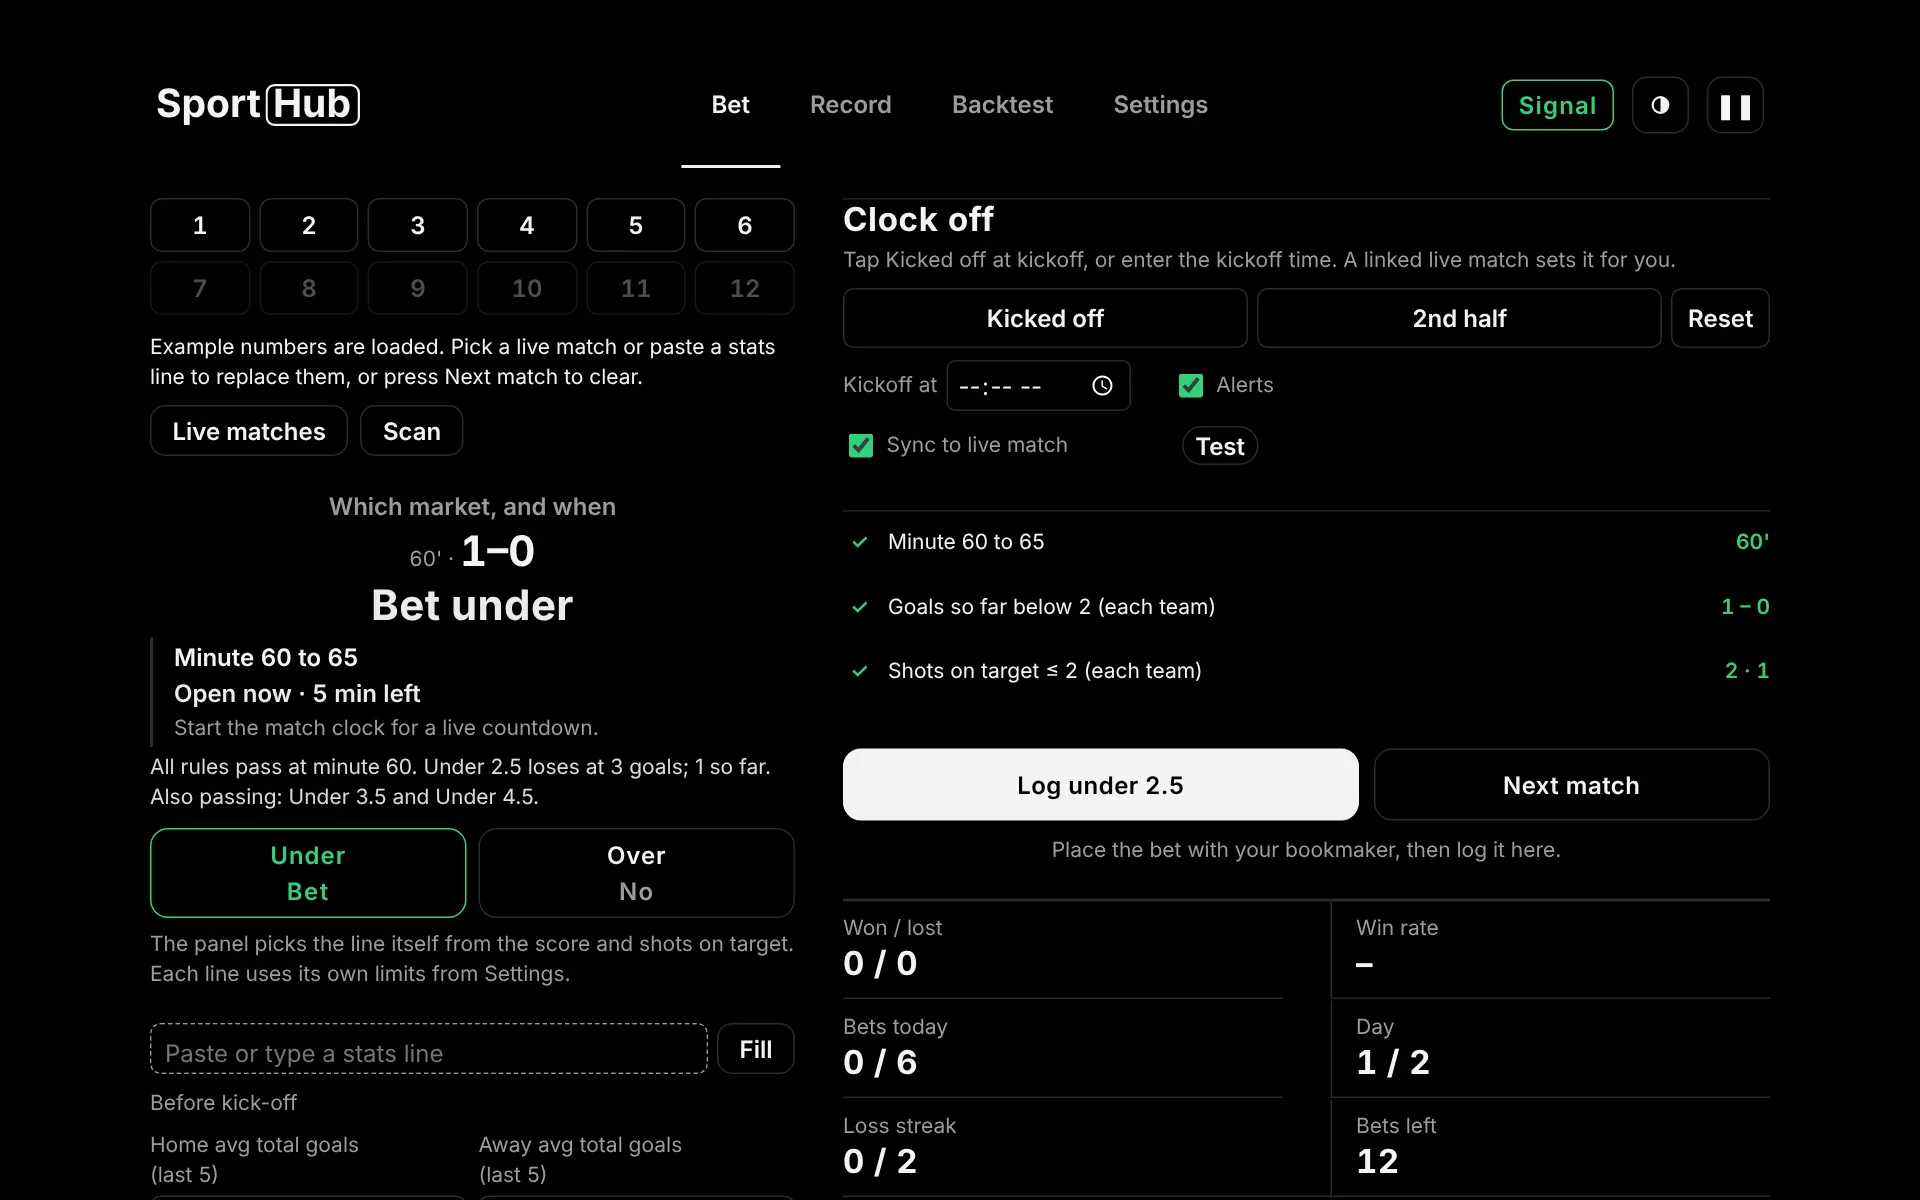
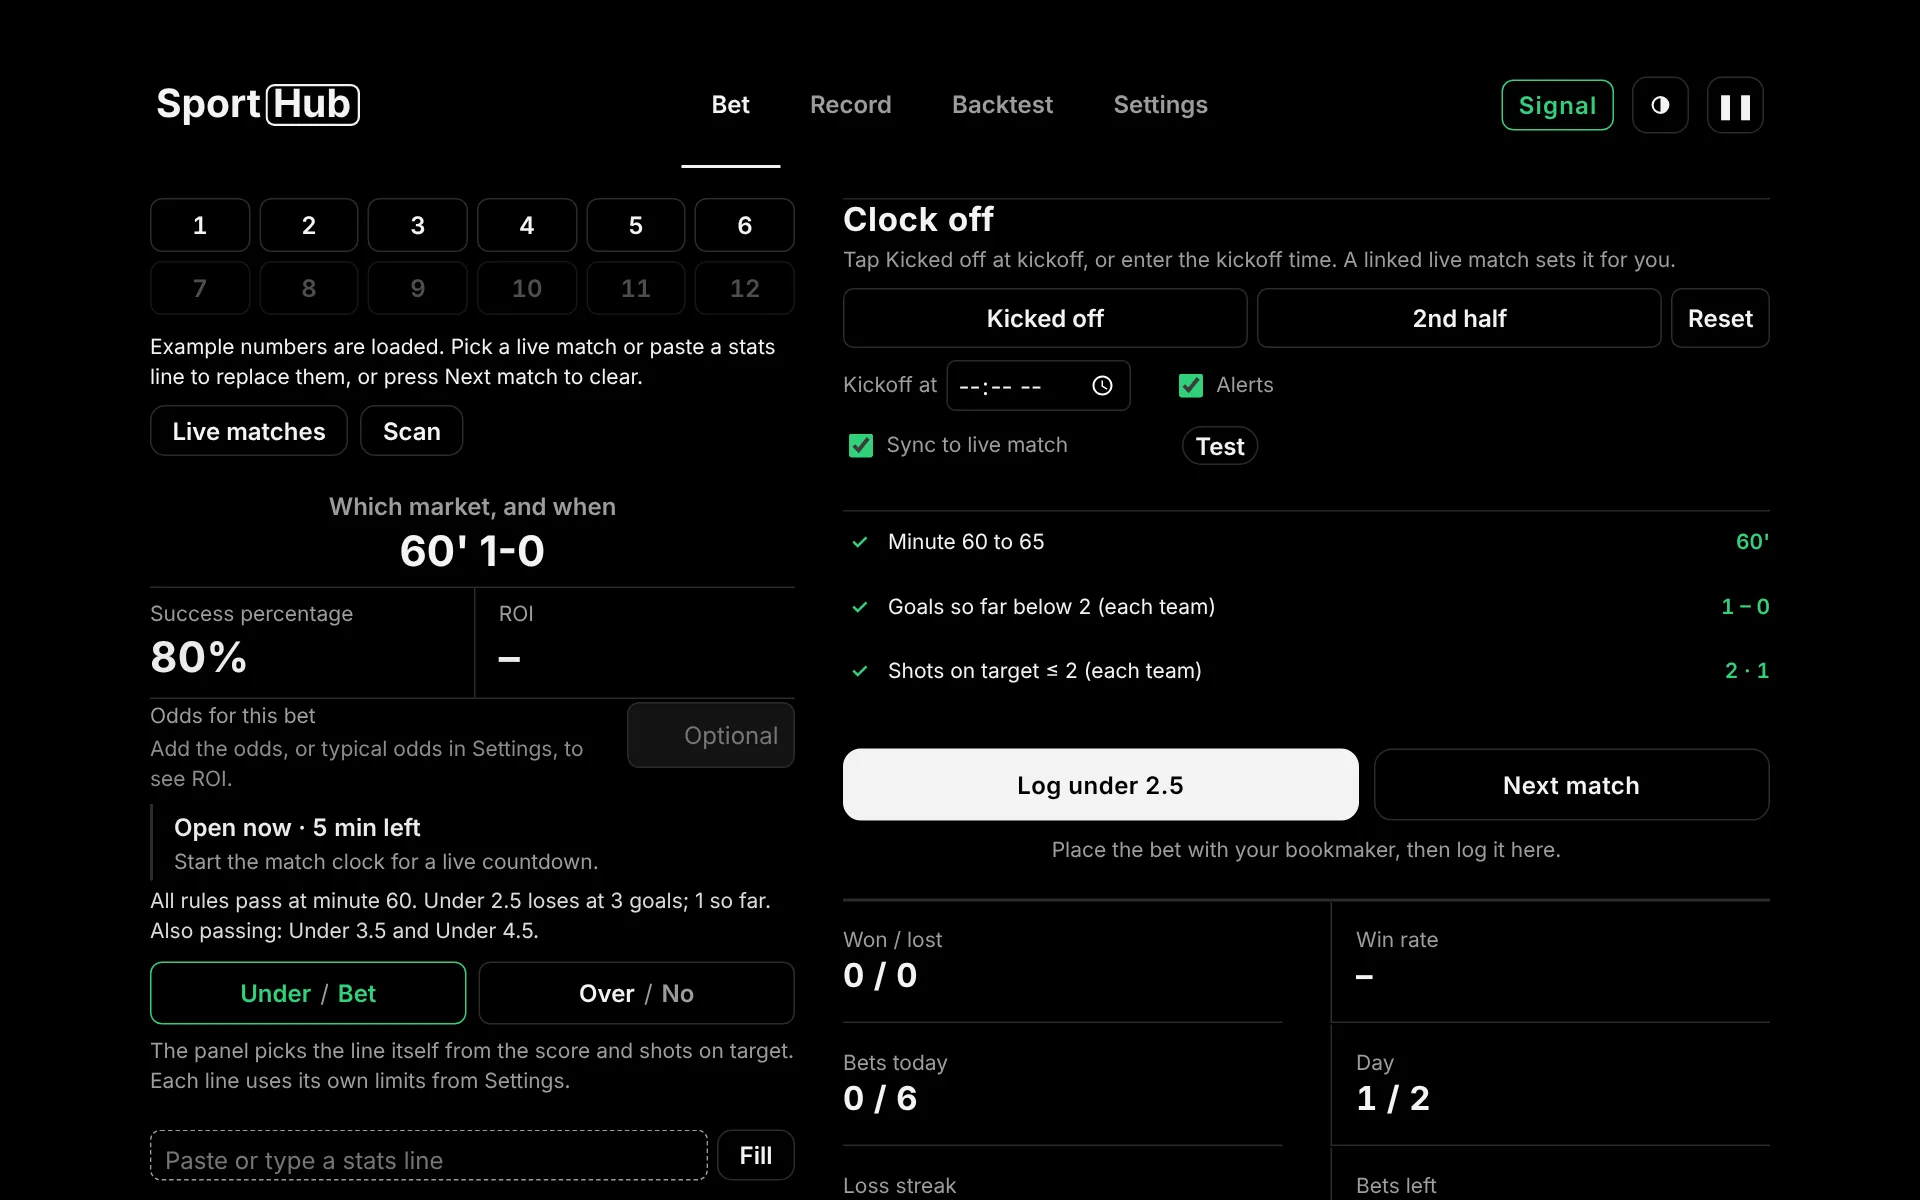
Build 65: live Success percentage and ROI under 60' 1-0, odds box, Typical odds, small Under / Bet chips
Claude-Session: https://claude.ai/code/session_01K42p2uwRXf4Wwj9iN5MFzn

diff --git a/panel.html b/panel.html
@@ -845,6 +845,23 @@ body.pg3 .v2[data-cur="3"] [data-pg]:not([data-pg~="3"]){display:none!important}
 
 /* ===== Build 63: the "Day x of y: bets left today" block (heading, big number, count line) is taken off the screen. The same counts are in the Session figures. ===== */
 #v-bet .stk{display:none!important}
+
+/* ===== Build 65: Success percentage and ROI under the minute and score, the odds for this bet, and small Under / Over chips ===== */
+#msig .mst{margin:12px 0 0}
+#msig .msod{display:flex;align-items:flex-start;justify-content:space-between;gap:12px;margin:8px 0 12px}
+#msig .msod>div{min-width:0;flex:1}
+#msig .msod label{display:block;font:var(--t-label);color:var(--mut)}
+#msig #ms_note{margin:2px 0 0;font:var(--t-label);color:var(--mut)}
+#msig .msod input{flex:none;width:112px;min-height:44px;padding:8px 10px;font:400 16px/22px var(--body);text-align:right;background:var(--card);color:var(--tx);border:1px solid var(--line);border-radius:8px}
+#msig .msm .scr{font-variant-numeric:normal}
+#msig .msc{flex-direction:row;justify-content:center;align-items:baseline;gap:0;min-height:0;padding:9px 6px;border-radius:8px}
+#msig .msc i,#msig .msc em{font:600 16px/22px var(--body);letter-spacing:0}
+#msig .msc span{margin:0 6px;font:400 16px/22px var(--body);color:var(--mut)}
+@media (min-width:900px){
+ #msig .mst{margin-top:8px}#msig .mst>div{padding-top:8px;padding-bottom:8px}#msig .msod{margin:2px 0 6px}
+ /* the left column is taller now (it holds the percentage row and the odds box), so the Session figures on the right get roomier spacing */
+ #fd-stats .grid>div{padding-top:16px;padding-bottom:16px}
+}
 </style>
 </head>
 <body>
@@ -1138,7 +1155,7 @@ body.pg3 .v2[data-cur="3"] [data-pg]:not([data-pg~="3"]){display:none!important}
  </section>
  <div class="pgnav" id="pgnav" hidden><button type="button" data-go="back">Back</button><button type="button" data-go="next">Next</button></div>
  <p class="pgsr" id="pgsr" role="status" aria-live="polite"></p>
- <footer>Numbers come from a pasted stats line, or are pulled from your own API-Sports key if you add one. Not connected to a bookmaker. No bet is guaranteed.<span class="bld"><span id="buildno">Build 64 · 7 Nov 2026</span> <a id="aboutlk" class="abl" href="./?about">About SportHub</a> <button type="button" class="pu" id="reloadnew" data-a="reload">Reload latest</button></span></footer>
+ <footer>Numbers come from a pasted stats line, or are pulled from your own API-Sports key if you add one. Not connected to a bookmaker. No bet is guaranteed.<span class="bld"><span id="buildno">Build 65 · 7 Nov 2026</span> <a id="aboutlk" class="abl" href="./?about">About SportHub</a> <button type="button" class="pu" id="reloadnew" data-a="reload">Reload latest</button></span></footer>
 </main>
 
 <script>
@@ -1631,6 +1648,26 @@ function recordStats(book,plan,mk){
   o.text=rec+'. The true rate is probably between '+pct1(o.lo)+' and '+pct1(o.hi)+'. '+(o.fair==null?'None won, so no price would have broken even.':'To profit you would need odds of at least '+o.fair.toFixed(2)+(o.fairSafe==null?'':' (up to '+o.fairSafe.toFixed(2)+' to be safe)')+'. Compare that with the real price on your platform.');
  }
  return o;
+}
+// Odds are optional: a number from 1.01 to 1000.
+function parseOdds(v){const x=num(v);return x!=null&&x>1&&x<=1000?Math.round(x*100)/100:null}
+function pcdf(k,l){let t=Math.exp(-l),s=t;for(let i=1;i<=k&&i<200;i++){t*=l/i;s+=t}return Math.min(1,s)}
+// Success percentage for the live match: the chance that the line in use wins, from the minute, the score and the numbers entered.
+// Goals still to come are Poisson. The pace is the xG seen so far (else 0.3 per shot on target, else the goals) blended with the last-5
+// average total goals, as if that average were worth 45 minutes of play. About 2 minutes of stoppage time are added to the clock.
+function liveProb(v,side,line){
+ if(!v||v.min==null||v.gh==null||v.ga==null||line==null)return null;
+ const m=Math.max(0,Math.min(120,v.min)),G=v.gh+v.ga;
+ const av=[v.avgH,v.avgA].filter(x=>x!=null&&x>=0);
+ const mu=av.length?av.reduce((a,b)=>a+b,0)/av.length:2.6;
+ let E=G;
+ if(v.xgh!=null&&v.xga!=null)E=v.xgh+v.xga;
+ else if(v.sotH!=null||v.sotA!=null)E=0.3*((v.sotH||0)+(v.sotA||0));
+ const K=45,lam=((mu/90*K+E)/(K+m))*(m<90?90-m+2:2);
+ let p;
+ if(side==='over'){const k=Math.ceil(line)-G;p=k<=0?1:1-pcdf(k-1,lam)}
+ else{const k=Math.floor(line)-G;p=k<0?0:pcdf(k,lam)}
+ return{p:Math.max(0,Math.min(1,p)),lam:lam};
 }
 const REC_TAG='U35DATA ';
 // Text you can paste into Notes or a message: a short summary plus one data line that recordImport can read back.
@@ -2219,12 +2256,13 @@ let msK='idle';
 function msWhenHtml(){
  if(msK==='bad')return '';
  const W=whenInfo(clk,c,Date.now(),num($('i_min').value));
- let l1='<span>Minute '+W.from+' to '+W.to+'</span>';
  let l2='',k='';
  if(W.state==='wait'){k='am';l2=W.clock?'Opens in '+(W.est?'about ':'')+mmss(W.secs):'Opens in '+W.mins+' min'}
  else if(W.state==='in'){k='pos';l2=W.clock?'Open now · '+(W.est?'about ':'')+mmss(W.secs)+' left':'Open now · '+W.mins+' min left'}
  else if(W.state==='past'){k='neg';l2=W.clock?'Closed at minute '+W.to+' by the match clock':'Closed at minute '+W.to}
- return '<div class="msw"><div class="msw1">'+l1+'</div>'+(l2?'<div class="msw2 '+k+'">'+esc(l2)+'</div>':'')+(W.clock||W.state==='past'?'':'<small>Start the match clock for a live countdown.</small>')+'</div>';
+ const hint=W.clock||W.state==='past'?'':'<small>Start the match clock for a live countdown.</small>';
+ if(!l2&&!hint)return '';
+ return '<div class="msw">'+(l2?'<div class="msw2 '+k+'">'+esc(l2)+'</div>':'')+hint+'</div>';
 }
 function msigWhen(){
  const el=$('mswhen');if(!el)return;
@@ -2234,6 +2272,22 @@ function msigWhen(){
 const SIGCLS={bet:'go',soon:'ok',lean:'ok',wait:'am',no:'bad',lost:'dn',won:'dn',idle:''};
 const SIGWORD={bet:'bet now',soon:'on track',lean:'leans this way',wait:'wait',no:'no bet',lost:'already lost',won:'already won',idle:'no numbers yet'};
 // The card above the verdict: which of the nine goal lines fits, and when to bet it. The pick can be switched to in one tap.
+// Success percentage and ROI for the live match, with the odds for this bet. ROI = success percentage x odds - 1 (the odds typed here, else the typical odds in Settings).
+let typOdds=null;
+const msStat=document.createElement('div');msStat.id='msstat';
+msStat.innerHTML='<div class="grid mst"><div><small>Success percentage</small><b id="ms_sp">–</b></div><div><small>ROI</small><b id="ms_roi">–</b></div></div><div class="msod"><div><label for="bet_od">Odds for this bet</label><p id="ms_note"></p></div><input id="bet_od" inputmode="decimal" autocomplete="off" placeholder="Optional" aria-describedby="ms_note"></div>';
+const odIn=msStat.querySelector('#bet_od'),spEl=msStat.querySelector('#ms_sp'),roiEl=msStat.querySelector('#ms_roi'),noteEl=msStat.querySelector('#ms_note');
+function msStatsUpdate(v){
+ const P=liveProb(v,c.side==='over'?'over':'under',lineOf(c)),p=P?P.p:null,od=parseOdds(odIn.value)||typOdds;
+ const pc=p==null?null:p>=1?100:p<=0?0:Math.min(99,Math.max(1,Math.round(p*100)));
+ spEl.textContent=pc==null?'–':pc+'%';
+ const r=pc!=null&&od?pc/100*od-1:null;
+ roiEl.textContent=r==null?'–':(r>=0?'+':'-')+Math.abs(r*100).toFixed(1)+'%';
+ odIn.placeholder=typOdds?'Typical '+typOdds.toFixed(2):'Optional';
+ noteEl.textContent=p==null?'Enter the minute and the score to see it.':!od?'Add the odds, or typical odds in Settings, to see ROI.':'An estimate. ROI = success percentage × odds − 1.';
+}
+odIn.addEventListener('input',()=>msStatsUpdate(rd()));
+function setTypOdds(v,keep){typOdds=parseOdds(v);if(!keep){try{if(typOdds)localStorage.setItem('u35_odds',String(typOdds));else localStorage.removeItem('u35_odds')}catch(e){}update()}}
 function msigRender(v){
  const el=$('msig'),S=signalAll(v,c),pin=pinOf(c);
  let head=S.head,text=S.text,cls=S.k==='idle'?'':S.k;
@@ -2243,17 +2297,19 @@ function msigRender(v){
   if(why){head='Rules pass, do not bet';cls='am';text=P.name+' fits the rules, but: '+why}
   else if(S.k==='go')head='Bet '+P.side.toLowerCase();
  }
- const chip=(side,label)=>{const r=S.sides[side],on=c.side===side;return '<div class="msc '+SIGCLS[r.st]+(on?' sel':'')+'" role="img" aria-label="'+esc(label+': '+SIGWORD[r.st]+(r.st==='bet'||r.st==='soon'||r.st==='lean'||r.st==='wait'?' ('+r.name+')':''))+'"'+(on?' aria-current="true"':'')+'><i>'+label+'</i><em>'+r.lbl+'</em></div>'};
- const ctx=[v.min!=null?v.min+"'":null,(v.gh!=null&&v.ga!=null)?v.gh+'–'+v.ga:null].filter(Boolean).join(' · ');
- const ctxH=[v.min!=null?esc(v.min+"'"):null,(v.gh!=null&&v.ga!=null)?'<span class="scr">'+esc(v.gh+'–'+v.ga)+'</span>':null].filter(Boolean).join(' · ');
+ const chip=(side,label)=>{const r=S.sides[side],on=c.side===side;return '<div class="msc '+SIGCLS[r.st]+(on?' sel':'')+'" role="img" aria-label="'+esc(label+': '+SIGWORD[r.st]+(r.st==='bet'||r.st==='soon'||r.st==='lean'||r.st==='wait'?' ('+r.name+')':''))+'"'+(on?' aria-current="true"':'')+'><i>'+label+'</i><span aria-hidden="true">/</span><em>'+r.lbl+'</em></div>'};
+ const ctx=[v.min!=null?v.min+"'":null,(v.gh!=null&&v.ga!=null)?v.gh+'-'+v.ga:null].filter(Boolean).join(' ');
+ const ctxH='<span class="scr">'+esc(ctx)+'</span>';
  const mline=v.name||ctx?'<div class="msm">'+(v.name?'<span>'+esc(v.name)+'</span>':'')+(ctx?'<em>'+ctxH+'</em>':'')+'</div>':'';
  msK=S.k;msHead=head;msCls=cls;
  const from=c.basis==='live'?'the score and shots on target':'the score, shots on target, xG and average goals';
- const h='<div class="msh" aria-live="polite"><small>Which market, and when</small>'+mline+'<b>'+esc(head)+'</b></div><div id="mswhen"></div><div class="msh" aria-live="polite"><p>'+esc(text)+'</p>'+(S.why&&S.why.length?'<ul class="msy">'+S.why.map(w=>'<li><span class="msyn">'+esc(w.name)+'</span> '+esc(w.text)+'</li>').join('')+'</ul>':'')+'</div>'
+ const h='<div class="msh" aria-live="polite"><small>Which market, and when</small>'+mline+'</div><div id="msslot"></div><div id="mswhen"></div><div class="msh" aria-live="polite"><p>'+esc(text)+'</p>'+(S.why&&S.why.length?'<ul class="msy">'+S.why.map(w=>'<li><span class="msyn">'+esc(w.name)+'</span> '+esc(w.text)+'</li>').join('')+'</ul>':'')+'</div>'
   +'<div class="msg">'+chip('under','Under')+chip('over','Over')+'</div>'
   +(pin?'<p class="msn">The market is held at '+esc(mkName(pin.side,pin.line))+' in Settings.</p><button type="button" class="msu" data-a="unpin">Let the panel choose</button>':'<p class="msn">The panel picks the line itself from '+from+'. Each line uses its own limits from Settings.</p>');
  el.hidden=false;el.className=cls;
  if(el.dataset.h!==h){el.dataset.h=h;el.innerHTML=h}
+ const sl=$('msslot');if(sl)sl.replaceWith(msStat);
+ msStatsUpdate(v);
  msigWhen();
 }
 // The decision and the Log button, pinned to the bottom of the Bet tab so Log is always one tap away.
@@ -2264,7 +2320,7 @@ function dockRender(vd,why,ev,v){
  const cls=['go','bad','am','ok'].indexOf(msCls)>=0?msCls:'';
  d.className='dock'+(cls?' '+cls:'')+(d.classList.contains('pulse')?' pulse':'');
  $('dkh').textContent=msHead||vd.head;
- $('dks').textContent=[v.min!=null?v.min+"'":null,(v.gh!=null&&v.ga!=null)?v.gh+'–'+v.ga:null].filter(Boolean).join(' · ')||'No numbers yet';
+ $('dks').textContent=[v.min!=null?v.min+"'":null,(v.gh!=null&&v.ga!=null)?v.gh+'-'+v.ga:null].filter(Boolean).join(' ')||'No numbers yet';
  const b=$('dkbuy');b.disabled=!!why;
  b.textContent=!why||pinOf(c)?'Log '+mkName(c.side,lineOf(c)).toLowerCase():(ev.dead||vd.k==='bad'?'No bet':'No bet yet');
  if(dockSeen&&cls==='go'&&dockPrev!=='go')dockPulse();
@@ -3437,6 +3493,7 @@ function nextMatch(focus){
  $('scres').hidden=true;scItems=[];
  lvUnlink(true);lvMsg('');
  INP.concat(['name']).forEach(k=>{$('i_'+k).value=''});
+ odIn.value='';
  $('exnote').hidden=true;
  undoSnap=null;$('pundo').hidden=true;$('pres').hidden=true;$('paste').value='';
  clockReset();snapReset();
@@ -3567,6 +3624,8 @@ function buildForm(){
   '<label>Market<select id="f_pin"><option value=""'+(pinOf(c)?'':' selected')+'>Auto: the panel decides</option>'+MKT_ALL.map(a=>{const k=mkKey(a[0],a[1]);return '<option value="'+k+'"'+(c.pin===k?' selected':'')+'>'+mkName(a[0],a[1])+'</option>'}).join('')+'</select></label>'+
    '<label>Decide from<select id="f_basis"><option value="live"'+(c.basis==='live'?' selected':'')+'>Score and shots on target</option><option value="all"'+(c.basis==='live'?'':' selected')+'>Also xG and average goals</option></select></label>'+
    '<p class="pace">Auto picks the Under or Over line that fits the live numbers. Pick a line to hold it instead.</p>'+
+   '<label>Typical odds<input id="f_odds" inputmode="decimal" autocomplete="off" placeholder="For example 1.85" value="'+(typOdds||'')+'"></label>'+
+   '<p class="pace">Used for ROI when you leave the odds for a bet empty.</p>'+
    fg('sd','Discipline',grid(['days','perDay','dayLoss','cool','maxStreak'])+
    sel('gate','Betting gate',[['block','Only when all rules pass'],['warn','Warn only']]))+
   fg('sm',mkName(c.side,lineOf(c))+' rules',(c.side==='over'?grid(c.basis==='live'?['minFrom','minTo','ovGoals','ovSot']:['ovAvg','minFrom','minTo','ovGoals','ovSot','ovXg']):grid(c.basis==='live'?['minFrom','minTo','goalsBelow','sotMax']:['avgMax','minFrom','minTo','goalsBelow','sotMax','xgMax']))+
@@ -3582,6 +3641,7 @@ function buildForm(){
   $('f_basis').onchange=e=>setBasis(e.target.value);
  $('f_theme').value=theme;$('f_theme').onchange=e=>setTheme(e.target.value);
  $('f_pages').value=pgMode;$('f_pages').onchange=e=>setPages(e.target.value);
+ $('f_odds').onchange=e=>setTypOdds(e.target.value);
  applyFold();pgTag();
 }
 function read(){
@@ -3677,6 +3737,7 @@ if(!s)fresh();
 keyLoad();
 pnLoad();
 bookLoad();
+try{setTypOdds(localStorage.getItem('u35_odds'),true)}catch(e){}
 
 recheck();
 update();

diff --git a/index.html b/index.html
@@ -264,7 +264,7 @@ h1,h2,h3,.wm,.wm *{font-weight:700 !important}
    <div class="phone">
     <picture>
      <source srcset="img/phone-bet-light.webp" media="(prefers-color-scheme: light)">
-     <img src="img/phone-bet-dark.webp" width="816" height="1740" alt="The Match page of the Bet tab at minute 60 with the score 1–0. Under the Live matches and Scan buttons the verdict reads Bet under and the window is open with 5 minutes left. A page strip under the tabs shows Match, Checks and Session." fetchpriority="high">
+     <img src="img/phone-bet-dark.webp" width="816" height="1740" alt="The Match page of the Bet tab at minute 60 with the score 1-0. Under the Live matches and Scan buttons the card shows the minute and score, the Success percentage for this live match and the ROI side by side, an optional box for this bet, and a window that is open with 5 minutes left. Two small chips read Under / Bet and Over / No. A page strip under the tabs shows Match, Checks and Session." fetchpriority="high">
     </picture>
    </div>
   </div>
